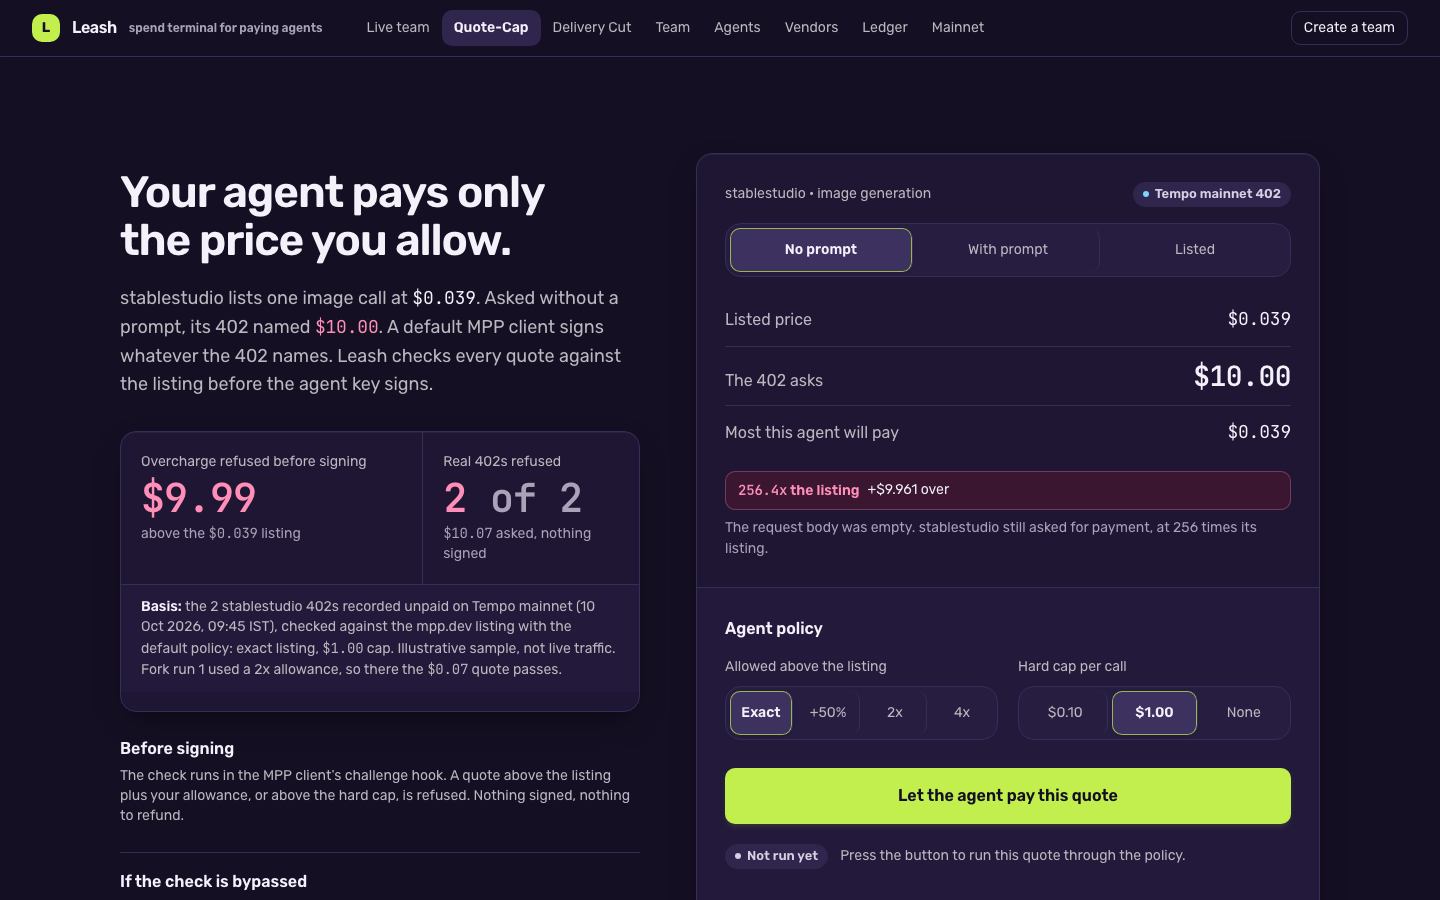
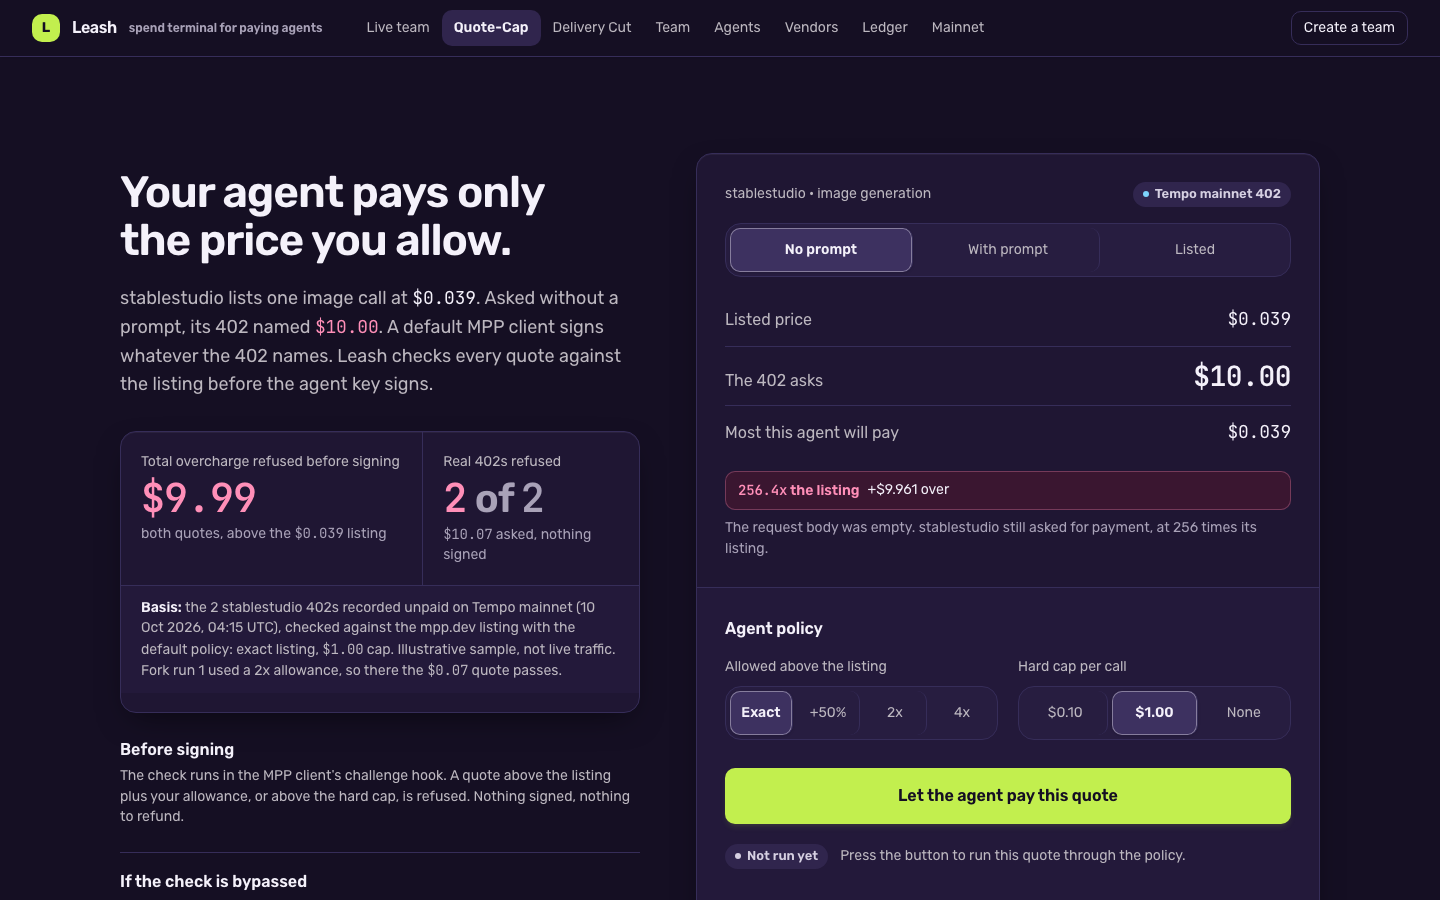
web r12 polish: toggle ring hairline, metric labels UTC, font-sans on 'of'
Second-pass quick wins: selected toggle ring uses ink/40 instead of lime; metric label 'Total overcharge'; basis time in UTC; 'of' between counts is sans so it does not inherit JetBrains Mono.

diff --git a/apps/web/src/pages/quotecap.tsx b/apps/web/src/pages/quotecap.tsx
@@ -339,17 +339,17 @@ function PrimaryMetric() {
     <section aria-label="What Leash stopped" className="card overflow-hidden">
       <div className="grid grid-cols-[minmax(0,1.4fr)_minmax(0,1fr)] divide-x divide-hairline">
         <div className="p-4 sm:p-5">
-          <p className="text-body-sm text-ink-muted">Overcharge refused before signing</p>
+          <p className="text-body-sm text-ink-muted">Total overcharge refused before signing</p>
           <p className="metric-value mt-1 text-refused">{usd2(over)}</p>
-          <p className="mt-1 text-body-sm text-ink-subtle">above the <span className="num">$0.039</span> listing</p>
+          <p className="mt-1 text-body-sm text-ink-subtle">both quotes, above the <span className="num">$0.039</span> listing</p>
         </div>
         <div className="p-4 sm:p-5">
           <p className="text-body-sm text-ink-muted">Real 402s refused</p>
-          <p className="metric-value mt-1"><span className="num text-refused">{refused.length}</span><span className="text-ink-subtle"> of </span><span className="num text-ink-subtle">{runs.length}</span></p>
+          <p className="metric-value mt-1"><span className="num text-refused">{refused.length}</span><span className="font-sans text-ink-subtle"> of </span><span className="num text-ink-subtle">{runs.length}</span></p>
           <p className="mt-1 text-body-sm text-ink-subtle"><span className="num">{usd(asked)}</span> asked, nothing signed</p>
         </div>
       </div>
-      <p className="border-t border-hairline bg-surface-1/60 px-4 py-3 text-body-sm text-ink-muted sm:px-5"><span className="font-semibold text-ink">Basis:</span> the 2 stablestudio 402s recorded unpaid on Tempo mainnet (10 Oct 2026, 09:45 IST), checked against the mpp.dev listing with the default policy: exact listing, <span className="num">$1.00</span> cap. Illustrative sample, not live traffic. Fork run 1 used a 2x allowance, so there the <span className="num">$0.07</span> quote passes.</p>
+      <p className="border-t border-hairline bg-surface-1/60 px-4 py-3 text-body-sm text-ink-muted sm:px-5"><span className="font-semibold text-ink">Basis:</span> the 2 stablestudio 402s recorded unpaid on Tempo mainnet (10 Oct 2026, 04:15 UTC), checked against the mpp.dev listing with the default policy: exact listing, <span className="num">$1.00</span> cap. Illustrative sample, not live traffic. Fork run 1 used a 2x allowance, so there the <span className="num">$0.07</span> quote passes.</p>
     </section>
   )
 }

diff --git a/apps/web/src/components/shadcn/toggle.tsx b/apps/web/src/components/shadcn/toggle.tsx
@@ -5,7 +5,7 @@ import { cn } from '@/lib/utils'
 
 // shadcn/ui toggle (installed with `uicraft add shadcn/toggle-group`), restyled to LEASH tokens.
 const toggleVariants = cva(
-  'inline-flex cursor-pointer items-center justify-center gap-2 whitespace-nowrap text-body-sm transition-colors duration-150 outline-none focus-visible:outline-2 focus-visible:outline-offset-2 focus-visible:outline-ink disabled:pointer-events-none disabled:opacity-50 rounded-md data-[state=on]:bg-surface-3 data-[state=on]:font-semibold data-[state=on]:text-ink data-[state=on]:shadow-sm data-[state=on]:ring-1 data-[state=on]:ring-inset data-[state=on]:ring-primary/70',
+  'inline-flex cursor-pointer items-center justify-center gap-2 whitespace-nowrap text-body-sm transition-colors duration-150 outline-none focus-visible:outline-2 focus-visible:outline-offset-2 focus-visible:outline-ink disabled:pointer-events-none disabled:opacity-50 rounded-md data-[state=on]:bg-surface-3 data-[state=on]:font-semibold data-[state=on]:text-ink data-[state=on]:shadow-sm data-[state=on]:ring-1 data-[state=on]:ring-inset data-[state=on]:ring-ink/40',
   {
     variants: {
       variant: {
